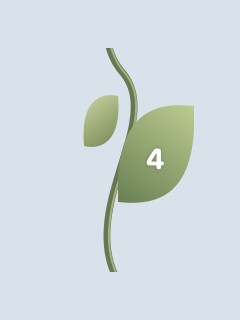
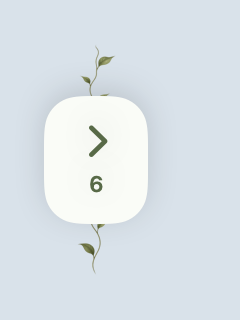
Refine botanical vine with centered control and gentle notification fades

Changed region(s): [[0.175, 0.125, 0.8167, 0.875]]

diff --git a/Sources/AlienPing/VineView.swift b/Sources/AlienPing/VineView.swift
@@ -30,18 +30,18 @@ private extension View {
     }
 }
 struct VineStem:View {
+    private static let artwork:NSImage? = {
+        let url=Bundle.main.url(forResource:"vine-botanical",withExtension:"png") ?? URL(fileURLWithPath:FileManager.default.currentDirectoryPath).appendingPathComponent("Resources/vine-botanical.png")
+        return NSImage(contentsOf:url)
+    }()
     var body:some View {
-        Canvas { ctx,size in
-            var stem=Path();stem.move(to:CGPoint(x:27,y:size.height+8))
-            var y=size.height
-            while y > -100 {
-                stem.addCurve(to:CGPoint(x:27,y:y-100),control1:CGPoint(x:2,y:y-30),control2:CGPoint(x:49,y:y-75));y-=100
-            }
-            ctx.stroke(stem,with:.color(Color(hex:"64774F")),style:StrokeStyle(lineWidth:3.4,lineCap:.round))
-            ctx.stroke(stem.offsetBy(dx:1,dy:0),with:.color(Color(hex:"B5C58A").opacity(0.75)),lineWidth:1)
-            for i in 0..<Int(size.height/96) {
-                let r=CGRect(x:i%2==0 ? 8:29,y:CGFloat(i)*96+24,width:17,height:25)
-                ctx.fill(VineLeaf().path(in:r),with:.linearGradient(Gradient(colors:[Color(hex:"C6D39A"),Color(hex:"718A4F")]),startPoint:r.origin,endPoint:CGPoint(x:r.maxX,y:r.maxY)))
+        GeometryReader { space in
+            if let image=Self.artwork {
+                Image(nsImage:image).resizable().interpolation(.high)
+                    .frame(width:space.size.height*image.size.width/image.size.height,height:space.size.height)
+                    .position(x:26,y:space.size.height/2)
+            } else {
+                Path { p in p.move(to:CGPoint(x:26,y:0));p.addCurve(to:CGPoint(x:26,y:space.size.height),control1:CGPoint(x:4,y:space.size.height/3),control2:CGPoint(x:48,y:space.size.height*2/3)) }.stroke(Color(hex:"829173"),lineWidth:1.5)
             }
         }.frame(width:52).allowsHitTesting(false).accessibilityHidden(true)
     }
@@ -51,8 +51,8 @@ struct VineView:View {
     @ObservedObject var model:Model
     @ObservedObject var state:VineState
     var targetsChanged:([VineHitTarget])->Void = {_ in}
-    private let ink=Color(hex:"403B32")
-    private var unread:[InboxEntry] { attention.inbox.entries.filter{!$0.read} }
+    private let ink=Color(hex:"303730")
+    private var unread:[InboxEntry] { VineSummary.previewable(attention.inbox.entries) }
     private var isExpanded:Bool { state.expanded && !unread.isEmpty && !attention.isQuiet }
     var body:some View {
         Group {
@@ -60,22 +60,26 @@ struct VineView:View {
             else { collapsed }
         }
         .frame(maxWidth:.infinity,maxHeight:.infinity,alignment:.topLeading)
+        .overlay(alignment:.leading) { compactControl.vineTarget() }
         .coordinateSpace(name:"vine")
         .onPreferenceChange(VineTargets.self,perform:targetsChanged)
-        .font(.system(size:13,design:.rounded)).foregroundStyle(ink)
+        .font(.system(size:13)).foregroundStyle(ink)
         .environment(\.colorScheme,.light)
     }
     private var expanded:some View {
         VStack(spacing:0) {
             HStack(spacing:8) {
                 Button { attention.showInbox?() } label:{
-                    HStack(spacing:7) { Image(systemName:"leaf.fill").foregroundStyle(Color(hex:"748354"));Text("Psst").fontWeight(.semibold);Text("Latest \(min(6,unread.count)) · \(unread.count) unread").foregroundStyle(ink.opacity(0.65)) }
+                    HStack(spacing:8) {
+                        Image(systemName:"leaf").font(.system(size:13,weight:.medium)).foregroundStyle(Color(hex:"687D55"))
+                        Text("Notifications").font(.system(size:13,weight:.medium))
+                        Text("\(min(6,unread.count)) of \(unread.count)").font(.system(size:11)).foregroundStyle(Color(hex:"687268"))
+                    }
                 }.buttonStyle(.plain).help("Open notification tray")
                 Spacer(minLength:2)
-                Button { state.expanded=false } label:{Image(systemName:"chevron.left").frame(width:28,height:28)}.buttonStyle(.plain).help("Collapse vine").accessibilityLabel("Collapse notification vine")
             }.padding(.leading,12).padding(.trailing,5).frame(height:40)
-                .background(Color(hex:"FFF8ED"),in:Capsule()).overlay(Capsule().strokeBorder(ink.opacity(0.1)))
-                .shadow(color:.black.opacity(0.08),radius:8,y:3).vineTarget().padding(.leading,42).padding(.trailing,10).padding(.top,8).padding(.bottom,8)
+                .background(Color(hex:"FAFCF7"),in:RoundedRectangle(cornerRadius:12))
+                .shadow(color:.black.opacity(0.08),radius:8,y:2).vineTarget().padding(.leading,42).padding(.trailing,10).padding(.top,8).padding(.bottom,8)
             GeometryReader { space in
                 ScrollView {
                     VStack(alignment:.leading,spacing:0) {
@@ -85,11 +89,11 @@ struct VineView:View {
                     }.frame(maxWidth:.infinity,alignment:.leading).padding(.vertical,8)
                 }.scrollIndicators(.hidden)
             }.background(alignment:.leading){ VineStem() }
-            Button { attention.showInbox?() } label:{Text("Open tray").font(.system(size:11,weight:.medium,design:.rounded)).padding(.horizontal,14).padding(.vertical,7)}
+            Button { attention.showInbox?() } label:{Text("View all notifications").font(.system(size:11,weight:.medium)).padding(.horizontal,14).padding(.vertical,7)}
                 .buttonStyle(.plain).background(Color(hex:"FFF8ED"),in:Capsule()).vineTarget().padding(.vertical,8)
         }
     }
-    private func accent(_ source:SourceApp)->Color { Color(hex:source == .claude ? "BC673D":"397EA3") }
+    private func accent(_ source:SourceApp)->Color { Color(hex:source == .claude ? "A8603F":"347798") }
     private func row(_ entry:InboxEntry)->some View {
         let color=accent(entry.source)
         let missing=entry.title.isEmpty && entry.body.isEmpty
@@ -97,9 +101,8 @@ struct VineView:View {
         let detail=model.hideText ? "Message preview hidden" : (missing ? "Message text wasn’t saved for this older notification." : (entry.title.isEmpty ? "" : entry.body))
         return HStack(spacing:0) {
             ZStack {
-                Path { p in p.move(to:CGPoint(x:22,y:42));p.addQuadCurve(to:CGPoint(x:52,y:23),control:CGPoint(x:42,y:45)) }.stroke(Color(hex:"748354"),lineWidth:2)
-                VineLeaf().fill(LinearGradient(colors:[color.opacity(0.6),color],startPoint:.topTrailing,endPoint:.bottomLeading)).frame(width:22,height:29).offset(x:9,y:-5)
-                Path { p in p.move(to:CGPoint(x:32,y:35));p.addLine(to:CGPoint(x:48,y:14)) }.stroke(.white.opacity(0.5),lineWidth:0.8)
+                Path { p in p.move(to:CGPoint(x:24,y:40));p.addQuadCurve(to:CGPoint(x:52,y:30),control:CGPoint(x:36,y:40)) }.stroke(Color(hex:"829173"),lineWidth:1.2)
+                VineLeaf().fill(color.opacity(0.75)).frame(width:12,height:20).offset(x:8,y:-1)
             }.frame(width:52,height:68).allowsHitTesting(false).accessibilityHidden(true)
             HStack(spacing:2) {
                 Button { attention.open(entry) } label:{
@@ -109,32 +112,79 @@ struct VineView:View {
                             Spacer()
                             Text(entry.date.formatted(date:.omitted,time:.shortened)).foregroundStyle(ink.opacity(0.55))
                         }.font(.system(size:11))
-                        Text(title).font(.system(size:15,weight:.semibold,design:.rounded)).lineLimit(2).multilineTextAlignment(.leading)
-                        if !detail.isEmpty { Text(detail).font(.system(size:13)).foregroundStyle(ink.opacity(0.75)).lineLimit(3).multilineTextAlignment(.leading) }
+                        Text(title).font(.system(size:14,weight:.medium)).lineLimit(2).multilineTextAlignment(.leading)
+                        if !detail.isEmpty { Text(detail).font(.system(size:12)).foregroundStyle(Color(hex:entry.source == .claude ? "66574D":"4C606D")).lineLimit(3).multilineTextAlignment(.leading) }
                     }.frame(maxWidth:.infinity,minHeight:46,alignment:.leading).contentShape(Rectangle())
                 }.buttonStyle(.plain).help("Open \(entry.source.rawValue)")
-                Button { attention.markRead(entry.id) } label:{Image(systemName:"checkmark.circle").font(.system(size:18,weight:.light)).foregroundStyle(color).frame(width:32,height:44)}
+                Button { attention.markRead(entry.id) } label:{Image(systemName:"checkmark.circle").font(.system(size:16,weight:.regular)).foregroundStyle(color.opacity(0.8)).frame(width:30,height:44)}
                     .buttonStyle(.plain).help("Mark read").accessibilityLabel("Mark \(title) read")
             }.padding(.leading,14).padding(.trailing,5).padding(.vertical,12)
-                .background(Color(hex:entry.source == .claude ? "FFF6E9":"F0F8FF"),in:RoundedRectangle(cornerRadius:22))
-                .overlay(RoundedRectangle(cornerRadius:22).strokeBorder(color.opacity(0.18)))
-                .shadow(color:.black.opacity(0.07),radius:5,y:3).vineTarget(scrolled:true).padding(.trailing,12)
-        }.padding(.bottom,8)
+                .background(Color(hex:entry.source == .claude ? "FFFCF6":"F4FAFF"),in:RoundedRectangle(cornerRadius:14))
+                .shadow(color:.black.opacity(0.10),radius:10,y:3).vineTarget(scrolled:true).padding(.trailing,12)
+        }.padding(.bottom,8).modifier(VineArrival())
     }
     private var collapsed:some View {
-        ZStack(alignment:.topLeading) {
-            VineStem().frame(width:52,height:112)
-            Button {
-                if attention.isQuiet || unread.isEmpty { attention.showInbox?() } else { state.expanded=true }
-            } label:{
-                ZStack {
-                    VineLeaf().fill(LinearGradient(colors:[Color(hex:"B7CD8A"),Color(hex:"64814D")],startPoint:.topTrailing,endPoint:.bottomLeading)).frame(width:38,height:48)
-                    Text(unread.isEmpty ? "✓" : "\(unread.count)").font(.system(size:14,weight:.bold,design:.rounded)).foregroundStyle(.white).shadow(color:.black.opacity(0.18),radius:1).offset(y:2)
-                }.frame(width:48,height:60).contentShape(Rectangle())
-            }.buttonStyle(.plain).help(attention.isQuiet ? "Quiet mode · \(unread.count) unread. Open tray" : "\(unread.count) unread. Open vine")
-                .accessibilityLabel("Psst, \(unread.count) unread notifications")
-                .vineTarget().offset(x:20,y:23)
-            if attention.isQuiet { Image(systemName:"moon.fill").font(.system(size:10)).foregroundStyle(ink).padding(5).background(Color(hex:"FFF8ED"),in:Circle()).offset(x:42,y:76).allowsHitTesting(false) }
-        }.frame(width:76,height:116)
+        VineStem().frame(width:52,height:116).accessibilityHidden(true)
+    }
+    private var compactControl:some View {
+        Button {
+            if isExpanded { state.expanded=false }
+            else if attention.isQuiet || unread.isEmpty { attention.showInbox?() }
+            else { state.expanded=true }
+        } label:{
+            VStack(spacing:5) {
+                Image(systemName:attention.isQuiet ? "moon":"chevron.\(isExpanded ? "left":"right")").font(.system(size:18,weight:.semibold))
+                if !isExpanded && !unread.isEmpty { Text("\(unread.count)").font(.system(size:11,weight:.semibold)) }
+                if unread.isEmpty { Image(systemName:"leaf").font(.system(size:12)) }
+            }.foregroundStyle(Color(hex:"536B43")).frame(width:52,height:64)
+                .background(Color(hex:"FAFCF7"),in:RoundedRectangle(cornerRadius:18))
+                .shadow(color:.black.opacity(0.14),radius:8,y:3).contentShape(RoundedRectangle(cornerRadius:18))
+        }.buttonStyle(.plain)
+            .accessibilityLabel(isExpanded ? "Collapse notification vine" : (unread.isEmpty ? "Open notification tray":"Expand notification vine"))
+            .help(isExpanded ? "Collapse notifications" : "Open notifications")
+    }
+
+}
+
+// Only a newly inserted row fades; existing rows never bounce or replay their entrance.
+private struct VineReducedPreviewKey:EnvironmentKey { static let defaultValue=false }
+private struct VineStaticPreviewKey:EnvironmentKey { static let defaultValue=false }
+extension EnvironmentValues {
+    var vineReducedPreview:Bool {
+        get { self[VineReducedPreviewKey.self] }
+        set { self[VineReducedPreviewKey.self]=newValue }
+    }
+    var vineStaticPreview:Bool {
+        get { self[VineStaticPreviewKey.self] }
+        set { self[VineStaticPreviewKey.self]=newValue }
+    }
+}
+private final class VineFadeClock:ObservableObject {
+    @Published var opacity:Double=0
+    private var timer:Timer?
+    private var started=false
+    func start(immediate:Bool) {
+        guard !started else { return };started=true
+        if immediate { opacity=1;return }
+        let start=ProcessInfo.processInfo.systemUptime
+        timer=Timer.scheduledTimer(withTimeInterval:1.0/60,repeats:true) { [weak self] timer in
+            guard let self else { timer.invalidate();return }
+            let progress=min(1,(ProcessInfo.processInfo.systemUptime-start)/0.36)
+            self.opacity=1-pow(1-progress,3)
+            if progress>=1 { timer.invalidate();self.timer=nil }
+        }
+    }
+    func finish() { timer?.invalidate();timer=nil;opacity=1 }
+    deinit { timer?.invalidate() }
+}
+private struct VineArrival:ViewModifier {
+    @Environment(\.accessibilityReduceMotion) private var reduced
+    @Environment(\.vineStaticPreview) private var preview
+    @Environment(\.vineReducedPreview) private var reducedPreview
+    @StateObject private var clock=VineFadeClock()
+    func body(content:Content)->some View {
+        content.opacity(preview || reduced || reducedPreview ? 1:clock.opacity)
+            .onAppear { clock.start(immediate:preview || reduced || reducedPreview) }
+            .onDisappear { clock.finish() }
     }
 }

diff --git a/Sources/AlienPing/VineMotionPreview.swift b/Sources/AlienPing/VineMotionPreview.swift
@@ -1,0 +1,37 @@
+import AppKit
+import SwiftUI
+import AlienCore
+
+/// Renders only an isolated sample view. Does not capture or record the display.
+enum VineMotionPreview {
+    @MainActor static func render(to directory:URL) throws {
+        try FileManager.default.createDirectory(at:directory,withIntermediateDirectories:true)
+        for reduced in [false,true] {
+            let folder=directory.appendingPathComponent(reduced ? "reduced":"normal")
+            try FileManager.default.createDirectory(at:folder,withIntermediateDirectories:true)
+            let model=Model(),temp=FileManager.default.temporaryDirectory.appendingPathComponent(UUID().uuidString)
+            let suite="Psst.MotionPreview."+UUID().uuidString
+            let defaults=UserDefaults(suiteName:suite)!
+            defer { defaults.removePersistentDomain(forName:suite);try? FileManager.default.removeItem(at:temp) }
+            let attention=AttentionController(model:model,directory:temp),state=VineState(defaults:defaults)
+            attention.inbox.insert(InboxEntry(source:.codex,title:"Your update is ready",body:"A new notification arrives with a gentle fade."))
+            let view=VineView(attention:attention,model:model,state:state).frame(width:372,height:330).padding(20).background(Color(hex:"D7E2EB")).environment(\.vineReducedPreview,reduced)
+            let host=NSHostingView(rootView:view)
+            host.frame=NSRect(x:0,y:0,width:412,height:370)
+            let window=NSWindow(contentRect:host.frame,styleMask:[.borderless],backing:.buffered,defer:false);window.contentView=host
+            let start=ProcessInfo.processInfo.systemUptime
+            var measured:[Double]=[]
+            for i in 0..<18 {
+                if i>0 { RunLoop.current.run(until:Date().addingTimeInterval(0.035)) }
+                if i==14 { attention.meetingStatus="Unrelated state update" }
+                host.layoutSubtreeIfNeeded()
+                guard let bitmap=host.bitmapImageRepForCachingDisplay(in:host.bounds) else { throw NSError(domain:"MotionPreview",code:1) }
+                host.cacheDisplay(in:host.bounds,to:bitmap)
+                measured.append(ProcessInfo.processInfo.systemUptime-start)
+                try bitmap.representation(using:.png,properties:[:])!.write(to:folder.appendingPathComponent("frame-\(i).png"))
+            }
+            let report:[String:Any]=["offscreen":true,"screenCapture":false,"reducedMotion":reduced,"measuredFrameTimes":measured,"duration":0.36,"interaction":"First appearance of a new unread row; unrelated meeting-status change at frame14", "trigger":"Native sample view first rendered at frame0; onAppear starts opacity clock", "frames":(0..<18).map{"frame-\($0).png"}, "limitations":"Offscreen SwiftUI frames only. Reduced motion uses a test environment override of the same immediate branch. Panel-level appearance and real pointer interactions not measured."]
+            try JSONSerialization.data(withJSONObject:report,options:.prettyPrinted).write(to:folder.appendingPathComponent("report.json"))
+        }
+    }
+}

diff --git a/Sources/AlienPing/ReadmePreview.swift b/Sources/AlienPing/ReadmePreview.swift
@@ -12,7 +12,7 @@ enum ReadmePreview {
         attention.inbox.insert(InboxEntry(source:.claude,title:"Your research is ready",body:"The comparison and source notes are ready to review."))
         attention.inbox.insert(InboxEntry(source:.codex,title:"Build complete",body:"Your changes are ready. Take a look when you have a moment."))
         func save<V:View>(_ view:V,_ name:String) throws {
-            let host=NSHostingView(rootView:view.environment(\.colorScheme,.light))
+            let host=NSHostingView(rootView:view.environment(\.colorScheme,.light).environment(\.vineStaticPreview,true))
             let size=host.fittingSize
             host.frame=NSRect(origin:.zero,size:size)
             let window=NSWindow(contentRect:host.frame,styleMask:[.borderless],backing:.buffered,defer:false)
@@ -31,7 +31,7 @@ enum ReadmePreview {
         attention.inbox.insert(InboxEntry(source:.codex,title:"Tests passed",body:"",date:Date().addingTimeInterval(-240)))
         attention.inbox.insert(InboxEntry(source:.claude,title:"Comparison complete",body:"Three options compared, with the key trade-offs highlighted.",date:Date().addingTimeInterval(-600)))
         attention.inbox.insert(InboxEntry(source:.codex,title:"Review ready",body:"The notification layout changes are ready for you to review.",date:Date().addingTimeInterval(-720)))
-        try save(VineView(attention:attention,model:model,state:state).frame(width:420,height:900).padding(22).background(Color(hex:"D7E2EB")),"vine.png")
+        try save(VineView(attention:attention,model:model,state:state).frame(width:372,height:900).padding(22).background(Color(hex:"D7E2EB")),"vine.png")
         state.expanded=false
         try save(VineView(attention:attention,model:model,state:state).frame(width:76,height:116).padding(22).background(Color(hex:"D7E2EB")),"vine-collapsed.png")
         try save(AttentionView(attention:attention,model:model).frame(width:640,height:680),"tray.png")

diff --git a/Sources/AlienPing/VineVerification.swift b/Sources/AlienPing/VineVerification.swift
@@ -27,10 +27,11 @@ enum VineVerification {
         let first=InboxEntry(source:.claude,title:"Fixture",body:"")
         model.attention.inbox.insert(first)
         settle()
-        try require(controller.layoutEvidence.frame.width==420,"Unread item must expand the vine")
+        try require(controller.layoutEvidence.frame.width==372,"Unread item must expand the vine")
         try require(controller.layoutEvidence.targets.count>=3,"Header, notification and tray controls must expose hit targets")
         try require(!controller.layoutEvidence.targets.contains{$0.contains(CGPoint(x:10,y:100))},"Decorative stem must pass clicks through")
-        try require(!controller.layoutEvidence.targets.contains{$0.contains(CGPoint(x:417,y:100))},"Transparent trailing margin must pass clicks through")
+        try require(!controller.layoutEvidence.targets.contains{$0.contains(CGPoint(x:369,y:100))},"Transparent trailing margin must pass clicks through")
+        try require(controller.layoutEvidence.targets.contains{$0.width>=52 && $0.contains(CGPoint(x:26,y:controller.layoutEvidence.frame.height/2))},"Large compact button must be centered vertically")
         model.attention.markRead(first.id);settle()
         try require(controller.layoutEvidence.frame.width==76,"Mark read must remove the final leaf")
         for i in 0..<200 { model.attention.inbox.insert(InboxEntry(source:i%2==0 ? .claude:.codex,title:"Sample \(i)",body:"")) }

diff --git a/Sources/AlienPing/VineController.swift b/Sources/AlienPing/VineController.swift
@@ -44,14 +44,21 @@ final class VineController {
     private func layout() {
         guard let panel,let screen=NSScreen.screens.first else { return }
         guard state.enabled else { panel.orderOut(nil);return }
-        let count=model.attention.inbox.unreadCount
+        let count=VineSummary.previewable(model.attention.inbox.entries).count
         let expanded=state.expanded && count>0 && !model.attention.isQuiet
         let area=screen.visibleFrame
         let height=expanded ? area.height-24 : 116
-        let width:CGFloat=expanded ? min(420,area.width) : 76
+        let width:CGFloat=expanded ? min(372,area.width) : 76
         let rect=NSRect(x:area.minX+4,y:area.midY-height/2,width:width,height:height)
         if panel.frame != rect { panel.setFrame(rect,display:true) }
-        if presenting && !panel.isVisible { panel.orderFrontRegardless() }
+        if presenting && !panel.isVisible {
+            panel.alphaValue=NSWorkspace.shared.accessibilityDisplayShouldReduceMotion ? 1:0
+            panel.orderFrontRegardless()
+            NSAnimationContext.runAnimationGroup { context in
+                context.duration=NSWorkspace.shared.accessibilityDisplayShouldReduceMotion ? 0:0.28
+                panel.animator().alphaValue=1
+            }
+        }
         let key="\(expanded)-\(count)-\(Int(area.width))-\(Int(area.height))"
         if key != lastLayout {
             lastLayout=key

diff --git a/Sources/AlienPing/Monitor.swift b/Sources/AlienPing/Monitor.swift
@@ -101,7 +101,7 @@ final class NotificationMonitor {
             Diagnostics.shared.event("monitor_state", ["state": phase, "trusted": model.trusted, "enabled": model.enabled])
             lastPhase = phase
         }
-        if let message, changed || received == 0 { model.status = message }
+        if let message, (changed || received == 0) && model.status != message { model.status = message }
         if changed || Date().timeIntervalSince(lastStateWrite) >= 5 {
             lastStateWrite = Date()
             Diagnostics.shared.state(["state": phase, "trusted": model.trusted, "enabled": model.enabled, "hideOriginal": model.replace, "received": received, "lastSource": lastSource, "apps": model.availableApps.map(\.rawValue), "codexNamedChatGPT": model.sourceAliases["chatgpt"] == .codex])
@@ -144,7 +144,8 @@ final class NotificationMonitor {
     }
     private func tick() {
         guard !stopped else { return }
-        model.trusted = AXIsProcessTrusted()
+        let trusted=AXIsProcessTrusted()
+        if model.trusted != trusted { model.trusted=trusted }
         guard model.trusted, model.enabled else {
             if !model.enabled { model.overlay.stop() }
             phase(model.trusted ? "paused" : "permission_required", message: model.trusted ? "Paused. Previews still work." : "Accessibility access is required. Click Connect to enable Psst.")

diff --git a/Sources/AlienCore/VineSummary.swift b/Sources/AlienCore/VineSummary.swift
@@ -1,8 +1,13 @@
 import Foundation
 
 public enum VineSummary {
-    /// The latest six individual unread notifications across both supported apps.
+    public static func previewable(_ entries:[InboxEntry])->[InboxEntry] {
+        entries.filter {
+            !$0.read && ($0.source == .claude || $0.source == .codex) &&
+            (!$0.title.trimmingCharacters(in:.whitespacesAndNewlines).isEmpty || !$0.body.trimmingCharacters(in:.whitespacesAndNewlines).isEmpty)
+        }.sorted{$0.date>$1.date}
+    }
     public static func recent(_ entries:[InboxEntry],limit:Int=6)->[InboxEntry] {
-        Array(entries.filter{!$0.read && ($0.source == .claude || $0.source == .codex)}.sorted{$0.date>$1.date}.prefix(max(0,limit)))
+        Array(previewable(entries).prefix(max(0,limit)))
     }
 }

diff --git a/Sources/AlienPing/main.swift b/Sources/AlienPing/main.swift
@@ -86,6 +86,10 @@ final class Delegate: NSObject, NSApplicationDelegate {
     func applicationWillTerminate(_ notification: Notification) { vine?.stop();model.monitor.stop();model.attention.stop() }
 }
 let app = NSApplication.shared
+if let index=CommandLine.arguments.firstIndex(of:"--render-vine-motion"),CommandLine.arguments.count>index+1 {
+    do { try MainActor.assumeIsolated { try VineMotionPreview.render(to:URL(fileURLWithPath:CommandLine.arguments[index+1])) };exit(0) }
+    catch { fputs("Motion render failed: \(error)\n",stderr);exit(1) }
+}
 if CommandLine.arguments.contains("--verify-vine") {
     do { try VineVerification.run();exit(0) }
     catch { fputs("Vine verification failed: \(error.localizedDescription)\n",stderr);exit(1) }

diff --git a/Tests/AlienCoreTests/main.swift b/Tests/AlienCoreTests/main.swift
@@ -235,5 +235,5 @@ let recentVine=VineSummary.recent(vineFixtures)
 XCTAssertEqual(recentVine.count,6)
 XCTAssertEqual(recentVine.first?.title,"Update 7")
 XCTAssertEqual(recentVine.contains{$0.read},false)
-XCTAssertEqual(VineSummary.recent([InboxEntry(source:.codex,title:"",body:"",date:now)]).count,1)
-print("Vine shows the latest six individual unread notifications across apps, including honest missing-text records")
+XCTAssertEqual(VineSummary.recent([InboxEntry(source:.codex,title:"",body:"",date:now)]).count,0)
+print("Vine shows the latest six individual unread notifications across apps, excluding records without saved text")

diff --git a/scripts/copy_resources.py b/scripts/copy_resources.py
@@ -5,7 +5,7 @@ from pathlib import Path
 root=Path(__file__).resolve().parents[1]/'Resources';target=Path(sys.argv[1]);manifest=json.loads((root/'mascots.json').read_text())
 paths={p for c in manifest['characters'] for a in c['animations'].values() for p in a['sheets'].values()}
 paths.update(manifest['arrivalEffect']['sheets'].values())
-paths.update(['Mascots/LICENSES.txt','Mascots/sources.json'])
+paths.update(['Mascots/LICENSES.txt','Mascots/sources.json','vine-botanical.png'])
 for path in sorted(paths):
  if Path(path).is_absolute() or '..' in Path(path).parts:raise ValueError('Unsafe asset path')
  destination=target/path;destination.parent.mkdir(parents=True,exist_ok=True);shutil.copy2(root/path,destination)

diff --git a/README.md b/README.md
@@ -22,9 +22,13 @@ These GIFs show the bundled character frames. In the app, companions also travel
 
 ![Native notification vine with sample messages](docs/images/vine.png)
 
-Unread Claude and Codex updates become orange and blue leaves along the left screen edge. Click a title to open its app or the check to mark it read. The vine uses the full available screen height and shows the latest six individual unread notifications across both apps, newest first, with their titles and message previews. Earlier items without saved text are identified honestly; all notifications remain in the full tray. Collapse it with the chevron, or hide it through **sparkle menu → Show notification vine**. Your choice survives restart. Quiet mode and an empty tray show only the small leaf badge.
+Unread Claude and Codex updates become orange and blue leaves along the left screen edge. Click a title to open its app or the check to mark it read. The vine uses the full available screen height and shows the latest six individual unread notifications across both apps, newest first, with their titles and message previews. Items without saved text are omitted from the vine; all notifications remain in the full tray. New cards fade in, with a static Reduce Motion alternative. Collapse it with the larger button midway down the left edge, or hide it through **sparkle menu → Show notification vine**. Your choice survives restart. Quiet mode and an empty tray show only the small leaf badge.
 
 ![Collapsed vine badge](docs/images/vine-collapsed.png)
+
+![Native card fade rendered offscreen](docs/images/vine-fade.gif)
+
+The fade preview uses illustrative content rendered offscreen; it is not a desktop recording.
 
 ### Catch up when you’re ready
 
@@ -41,7 +45,7 @@ Missed notifications stay in your tray. Bursts within two seconds become one sum
 
 ## Download and install
 
-Get **Psst-0.8.3-universal.dmg** from [Releases](https://github.com/Sickaada/psst/releases). Apple Silicon and Intel are included in one app. macOS 14 or newer is required. Notification compatibility depends on the macOS and source-app versions; this first release has not been tested on every supported Mac.
+Get **Psst-0.8.4-universal.dmg** from [Releases](https://github.com/Sickaada/psst/releases). Apple Silicon and Intel are included in one app. macOS 14 or newer is required. Notification compatibility depends on the macOS and source-app versions; this first release has not been tested on every supported Mac.
 
 1. Open the disk image and drag **Psst** into **Applications**. Eject the disk image.
 2. Open Psst from Applications. This personal/community build is locally signed, **not Apple-notarized**. If macOS blocks it, review [Apple’s instructions for opening an app from an unidentified developer](https://support.apple.com/en-us/102445). Only proceed if you trust this download. Do not disable Gatekeeper globally or install a signing certificate.

diff --git a/docs/superpowers/plans/2026-11-26-vine.md b/docs/superpowers/plans/2026-11-26-vine.md
@@ -19,3 +19,5 @@ Validation: offscreen layout/state harness passed twice after fixing excess test
 Follow-up refinement: VineSummary selects three newest content-bearing items per app, groups missing-text records, and counts overflow accurately. Native rows include two-line body previews and a fixed clock timestamp. Unchanged quiet/inbox state no longer republishes every half-second. Core selection/count tests and offscreen state checks passed; review found no material correctness/privacy issue. Persistent message storage remains opt-in.
 
 Final user correction: replaced grouped/per-app preview with six individual newest unread items total, at full visible-screen height (420pt width). Source, time, title and up to three body lines remain readable. Selection tests, offscreen state/layout harness and independent static review passed. Signed 0.8.3 runtime reported a 420×920 expanded vine, trusted Accessibility and listening status; both synthetic companion previews passed. User mouse-event verification remains outstanding.
+
+0.8.4 installed: botanical vine, slimmer typography/cards, missing-text exclusion, centered52×64 control, bounded new-row fade and static Reduce Motion override. Core/offscreen checks and universal signed update passed. Motion review established stationary opacity progression, stable final paint, no unrelated-update replay, and static reduced-motion samples. Formal full-interaction verdict remains unavailable due absent pre-trigger boundary/live panel capture; no smoothness claim. Source model status/trust now publishes only changes to avoid needless UI refreshes.
